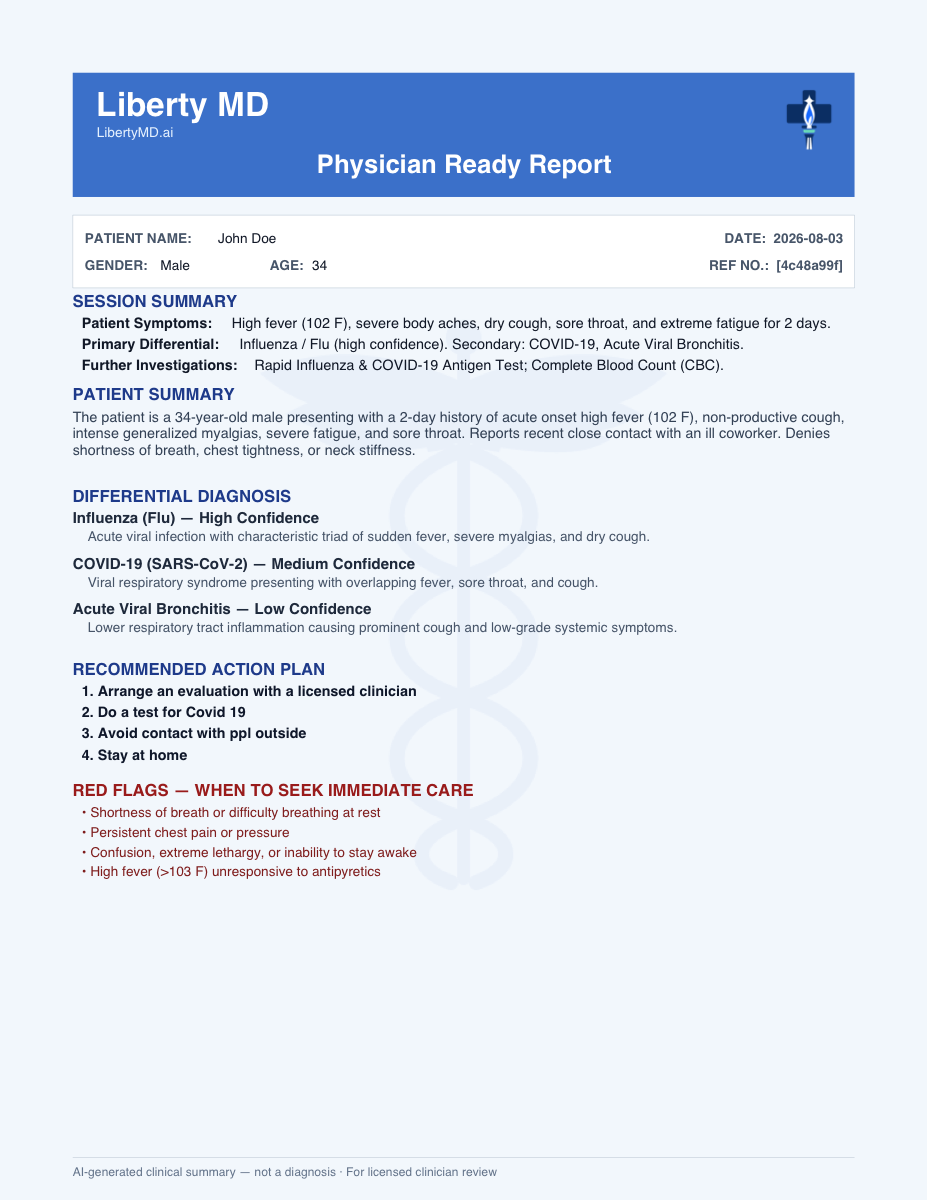
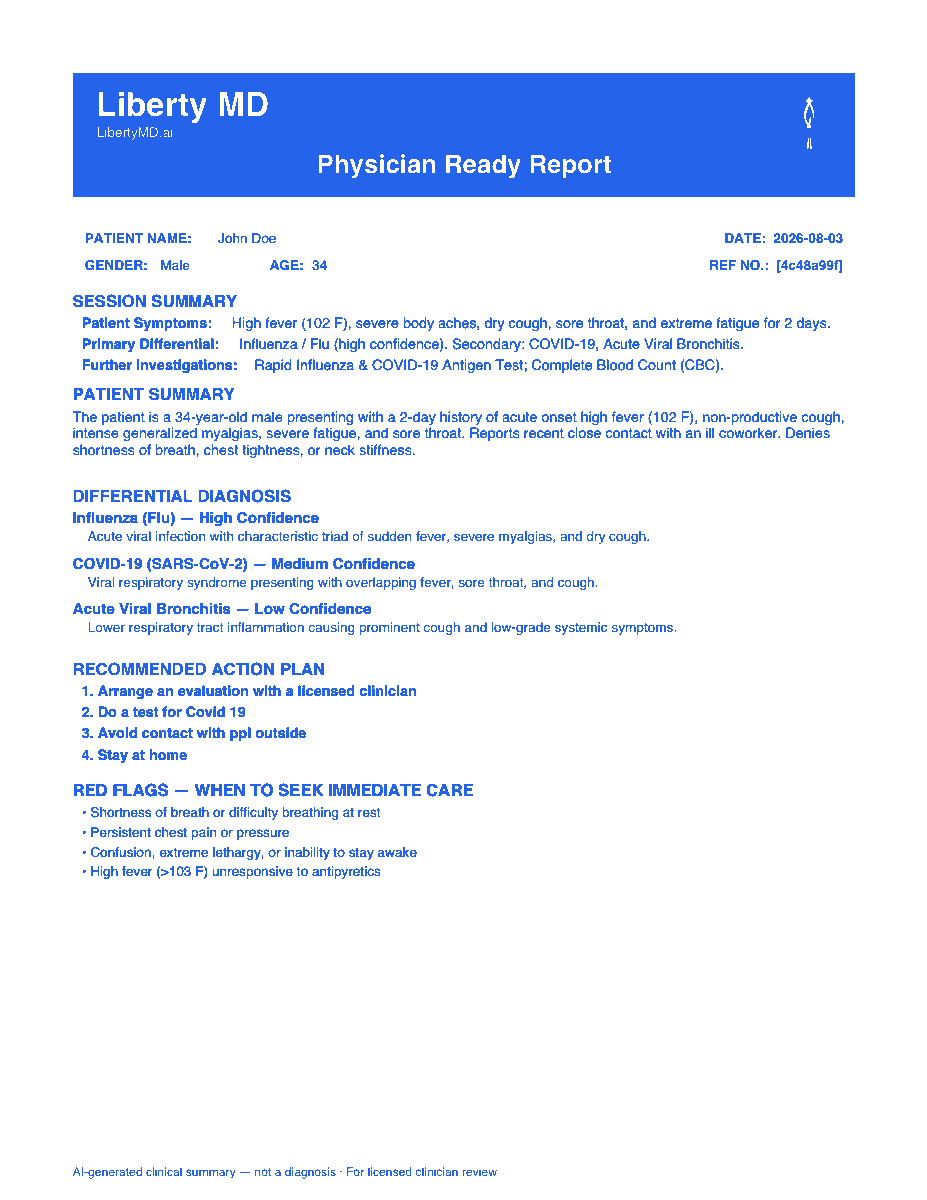
fix(libertymd): convert Caduceus emblem to transparent PNG and SVG wrapper, ensure Hippocratic watermark is clearly visible

Changed region(s): [[0.0604, 0.0617, 0.9364, 0.74], [0.2718, 0.9558, 0.5437, 0.9867], [0.0906, 0.9558, 0.2416, 0.9867]]

diff --git a/components/LibertyMD/LibertyMDReportView.tsx b/components/LibertyMD/LibertyMDReportView.tsx
@@ -585,15 +585,15 @@ export function LibertyMDReportView({
       data-libertymd-retention-expires-at={retentionExpiresAt || undefined}
       className="relative overflow-hidden mt-[var(--libertymd-space-md)] max-w-full rounded-2xl border border-libertymd-blue-200/70 bg-gradient-to-b from-[#F2F7FF] via-[#F8FAFE] to-[#E6F0FC] shadow-[0_20px_65px_rgba(23,50,95,0.09)]"
     >
-      {/* Background Rod of Asclepius Watermark Emblem */}
+      {/* Background Rod of Asclepius / Hippocratic Oath Watermark Emblem */}
       <div
-        className="pointer-events-none absolute inset-0 z-0 flex items-center justify-center overflow-hidden opacity-[0.05] select-none"
+        className="pointer-events-none absolute inset-0 z-0 flex items-center justify-center overflow-hidden opacity-[0.08] select-none"
         aria-hidden="true"
       >
         <img
-          src="/images/asclepius-watermark.svg"
+          src="/images/asclepius-watermark.png"
           alt=""
-          className="h-[480px] w-auto max-w-none object-contain"
+          className="h-[520px] w-auto max-w-none object-contain"
         />
       </div>
 
